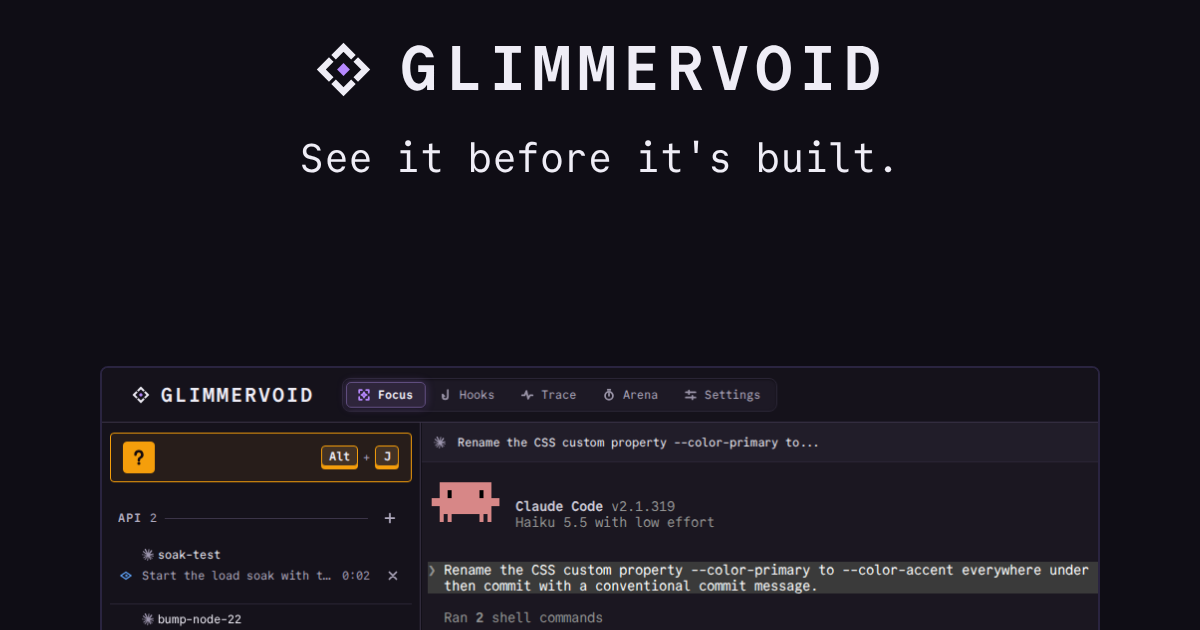
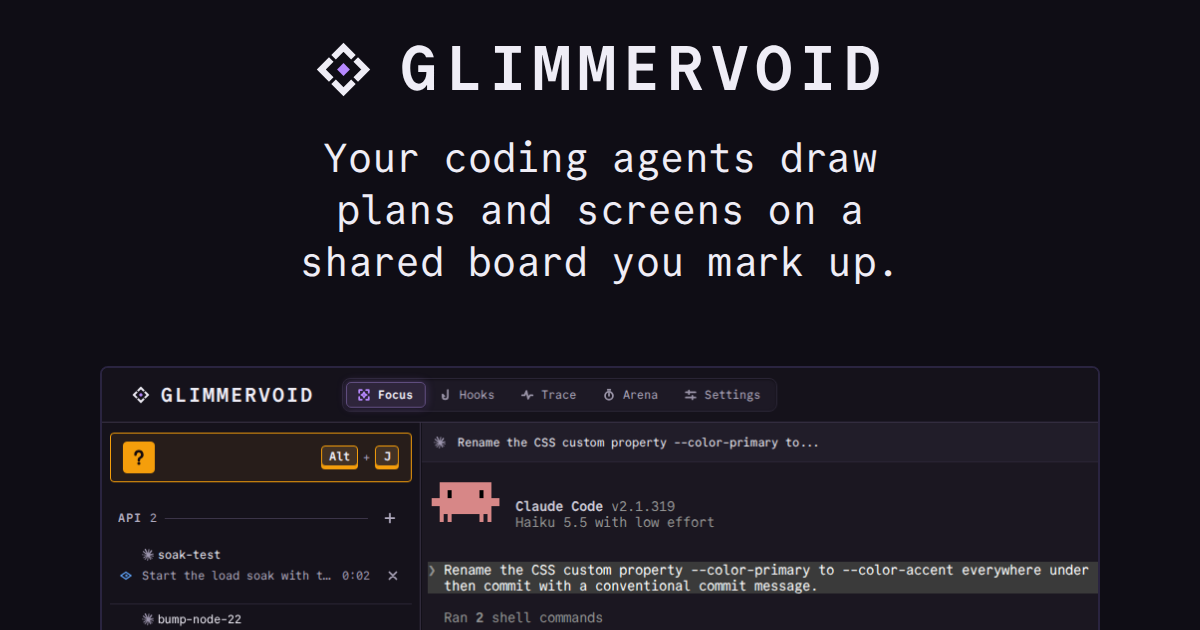
docs(brand): unify product pitch across site, README, package, and brand bible
Replace the three competing pitches across README.md, package.json,
marketing/social/manifest.json, brand-bible/naming.yaml,
brand-bible/voice.yaml, and the Astro site under site/src/ with the
settled line: "Your coding agents draw plans and screens on a shared
board you mark up."

Update surrounding supporting copy where it restated an old pitch or
predated Studio on ACP, Focus with its terminal, and Packs, regenerate
site/public/capture/og.png from marketing/social/manifest.json so the
social link card matches its alt text, and add an Unreleased CHANGELOG
entry per site/AGENTS.md.

Ticket: one-pitch-everywhere/U1
Scope-risk: narrow
Confidence: medium
Not-tested: Astro site browser layout-shift walk (text-only copy replacement; astro build passed and og.png visually verified)

Changed region(s): [[0.2467, 0.2111, 0.74, 0.3619], [0.2467, 0.3921, 0.74, 0.4524]]

diff --git a/site/src/pages/index.md.ts b/site/src/pages/index.md.ts
@@ -3,13 +3,13 @@ import { AGENT_COMMAND_HELP } from '../../../server/core/agent-api-core.ts';
 import { agentMarkdownPage, markdownResponse } from '../lib/agent-markdown.ts';
 import { FAQ_ENTRIES } from '../lib/faq.ts';
 import { INSTALL_COMMAND, WINDOWS_INSTALL_COMMAND } from '../lib/install-command.ts';
-import { AGENT_CARDS, DEFAULT_PORT, SANE_YOLO_AGENT_LABELS, PRODUCT_VERSION, REPOSITORY_URL } from '../lib/product-facts.ts';
+import { AGENT_CARDS, DEFAULT_PORT, PRODUCT_SUMMARY, SANE_YOLO_AGENT_LABELS, PRODUCT_VERSION, REPOSITORY_URL } from '../lib/product-facts.ts';
 import { sitePath } from '../lib/site-path.ts';
 
 export const GET: APIRoute = ({ site }) => {
   const urlOf = (pathWithinSite: string) => new URL(sitePath(pathWithinSite), site).href;
   const body = [
-    `Glimmervoid is an open-source agentic development environment (ADE): a local orchestrator for coding agents. A small Node.js process on your own machine starts each agent as a real process in a real terminal, with your own login, subscription, skills, hooks and settings, gives each session its own git worktree, and serves a browser dashboard that shows which session needs you. It never sits between an agent and its model. It binds to localhost, needs no account, and is open source under MIT. Current version: ${PRODUCT_VERSION}.`,
+    `${PRODUCT_SUMMARY} A small Node.js process on your own machine runs Claude Code, Codex and Antigravity CLI over ACP in Studio with no terminal, keeps the terminal in Focus, gives each session its own git worktree, and serves a browser dashboard where Packs add tabs and only the session that needs you comes to the front. Each agent uses your own login, subscription, skills, hooks and settings, and talks straight to its model. It binds to localhost, needs no account, and is open source under MIT. Current version: ${PRODUCT_VERSION}.`,
     '## Install',
     [
       `- macOS and Linux: \`${INSTALL_COMMAND}\``,
@@ -24,7 +24,7 @@ export const GET: APIRoute = ({ site }) => {
     ].join('\n'),
     '## Features',
     [
-      '- Boards: every session gets a whiteboard beside its terminal. The agent puts what it would otherwise describe there: UI prototypes framed on a device with dials you turn, architecture diagrams, plans as steps marked planned, building or landed, screenshots, clips and docs. You drag, draw with the pen, leave sticky notes or red-pen a doc, and the agent sees each change on its next prompt.',
+      '- Boards: Studio puts the shared board at the center with no terminal in the way, while Focus keeps the terminal beside it. The agent puts what it would otherwise describe there: UI prototypes framed on a device with dials you turn, architecture diagrams, plans as steps marked planned, building or landed, screenshots, clips and docs. You drag, draw with the pen, leave sticky notes or red-pen a doc, and the agent sees each change on its next prompt.',
       '- Status: read from each agent\'s own lifecycle hooks, with the terminal title as a fallback, never from reading the screen. Every session that needs you gets a numbered place in line in the attention banner; tap the banner, or press Cmd+J on macOS and Alt+J elsewhere, to open the next one\'s terminal.',
       '- Reviews, Team: your teammates\' pull requests get a review drafted by an agent, and nothing posts to GitHub until you keep the comments you agree with and click Approve or Comment. Re-reviews after new commits raise only high findings. Opt-in.',
       '- Reviews, Mine: every pull request you opened shows its merge readiness (checks, review, threads, conflicts, base). Per pull request you can turn on Merge when ready, which merges it once everything is green, and Keep mergeable, which has an agent repair conflicts and failing checks.',

diff --git a/site/src/lib/faq.ts b/site/src/lib/faq.ts
@@ -7,11 +7,11 @@ export interface FaqEntry {
 
 export const FAQ_ENTRIES: readonly FaqEntry[] = [
   {
-    question: 'What is an agentic development environment (ADE)?',
+    question: 'What is Glimmervoid?',
     answerParagraphs: [
-      'A workspace built around AI coding agents instead of a code editor.',
-      'Agents run in parallel, each in its own git worktree. You review their diffs and merge.',
-      'Glimmervoid is an open-source ADE for terminal coding agents.',
+      'Your coding agents draw plans and screens on a shared board you mark up.',
+      'Studio runs Claude Code, Codex and Antigravity CLI over ACP with no terminal, Focus keeps the terminal when you want it, and Packs add tabs.',
+      'Every agent works in its own git worktree, so you answer, review their diffs and merge from one place.',
     ],
   },
   {
@@ -47,10 +47,10 @@ export const FAQ_ENTRIES: readonly FaqEntry[] = [
     ],
   },
   {
-    question: 'How is an ADE different from an IDE or a terminal multiplexer?',
+    question: 'How is Glimmervoid different from an IDE or a terminal multiplexer?',
     answerParagraphs: [
-      'An IDE is built around you editing files. An ADE is built around agents editing while you answer, review and merge.',
-      'A multiplexer gives you a grid to watch. Glimmervoid reads each agent\'s status from its hooks and queues the ones that need you.',
+      'An IDE centers on you editing files by hand. Glimmervoid runs agents in parallel worktrees while you mark up their boards, review diffs and merge.',
+      'A multiplexer gives you a grid of terminals to watch. Glimmervoid reads each agent\'s status from its hooks and brings forward the session that needs you.',
     ],
   },
 ];

diff --git a/site/src/lib/product-facts.ts b/site/src/lib/product-facts.ts
@@ -72,6 +72,6 @@ export const AUTHOR = { '@type': 'Person', name: 'John C. Waters', url: 'https:/
 
 export const CODING_AGENT_LABELS = labelsOfAdaptersWhere((adapter) => adapter.id !== 'shell');
 
-export const PRODUCT_SUMMARY = 'Open-source agentic development environment (ADE) for terminal coding agents. Your agent shows its prototypes, architecture and plans on a whiteboard beside its terminal, each session runs in its own worktree, and you see which one needs you.';
+export const PRODUCT_SUMMARY = 'Your coding agents draw plans and screens on a shared board you mark up.';
 
-export const HOME_DESCRIPTION = "Open-source ADE for agents. See it before it's built: your coding agent sketches the screen, draws the architecture and shows you on a whiteboard. Run it on your computer, or on Glimmervoid Cloud from any phone.";
+export const HOME_DESCRIPTION = 'Your coding agents draw plans and screens on a shared board you mark up.';

diff --git a/site/src/lib/home-structured-data.ts b/site/src/lib/home-structured-data.ts
@@ -1,7 +1,7 @@
 import { FAQ_ENTRIES } from './faq.ts';
 import { AUTHOR, PRODUCT_SUMMARY, PRODUCT_VERSION, REPOSITORY_URL } from './product-facts.ts';
 
-export const HOME_TITLE = "Glimmervoid: Open-source ADE for agents. See it before it's built.";
+export const HOME_TITLE = 'Glimmervoid: Your coding agents draw plans and screens on a shared board you mark up.';
 
 export function homeStructuredData(site: URL | undefined): Record<string, unknown> {
   const homeUrl = new URL('/', site).href;

diff --git a/CHANGELOG.md b/CHANGELOG.md
@@ -14,6 +14,7 @@ and this project adheres to [Semantic Versioning](https://semver.org/spec/v2.0.0
 
 ### Changed
 
+- **glimmervoid.dev, README, package metadata, and brand bible now share one product pitch.** Unified the site, README, package description, brand bible, and social link card on "Your coding agents draw plans and screens on a shared board you mark up." and updated surrounding copy to reflect Studio on ACP, Focus with its terminal, and Packs.
 - **Studio no longer shows terminal fallbacks and now displays agent failures directly on Studio cards and in the Studio dock.** Removed Studio's terminal-wait card handling, terminal-mentioning plan-card copy, and open-terminal actions; when a Studio agent stalls, fails, or drops a message, its failure text appears directly on its agent card (keeping failed branch cards expanded) and in the Studio dock with no terminal offered. Focus Chat keeps its terminal and PTY paste paths unchanged.
 - **Existing Studio sessions now migrate onto ACP automatically at startup.** On the first start after upgrading, the Orchestrator and live branch sessions switch to the ACP driver in one config write, resuming their prior conversation over `session/load` (verified for Claude Code, Codex CLI, and Antigravity) or starting fresh with one plain note in Studio when the earlier conversation cannot be carried over. Studio projects whose configured agent has no ACP row stay stopped without switching their agent and show a note naming the agent and how to pick an ACP-capable agent. Focus sessions stay on PTY.
 - **Studio sessions now run on the ACP driver only, and the Studio agent picker lists only ACP agents.** New Studio sessions start on ACP (including a built-in `antigravity` row running `agy acp` alongside Claude Code, Codex CLI, and any `acpAgents` entries in `config.json`), while Focus sessions stay on the PTY driver. Requesting a Studio session with an agent that has no ACP row is refused with the list of usable ACP agents.

diff --git a/README.md b/README.md
@@ -5,13 +5,13 @@
 [![Node.js](https://img.shields.io/badge/node-%3E%3D24.15-brightgreen.svg)](https://nodejs.org)
 [![Platform: Windows | Linux | macOS](https://img.shields.io/badge/platform-Windows%20%7C%20Linux%20%7C%20macOS-0078d4)](https://github.com/johncwaters/glimmervoid)
 
-**See it before it's built. Your coding agent sketches the screen, draws the architecture and shows you on a whiteboard.**
+**Your coding agents draw plans and screens on a shared board you mark up.**
 
 [glimmervoid.dev](https://glimmervoid.dev)
 
 Glimmervoid takes a feature from start to finish. Every agent works in its own git worktree, status comes from the agent's own hooks, and the one session that needs you comes to the front. Review and merge from the same page.
 
-It is an orchestrator, not a harness. Your coding agents run unmodified, as real processes in real terminals, with your own login, subscription, skills, hooks and settings, talking straight to their model. Run it free on your own computer, or on [Glimmervoid Cloud](https://glimmervoid.dev/#cloud), where your sessions keep working after you close the laptop and you open them from any browser or phone. Glimmervoid is developed inside Glimmervoid.
+It is an orchestrator, not a harness. Your coding agents run unmodified with your own login, subscription, skills, hooks and settings, talking straight to their model: Studio runs Claude Code, Codex and Antigravity CLI over ACP with no terminal, Focus keeps the terminal, and Packs add tabs. Run it free on your own computer, or on [Glimmervoid Cloud](https://glimmervoid.dev/#cloud), where your sessions keep working after you close the laptop and you open them from any browser or phone. Glimmervoid is developed inside Glimmervoid.
 
 ![Glimmervoid dashboard replaying recorded Claude Code sessions: one fixes a flaky upload test with its diff in the terminal, three more work on their own projects in the session rail](assets/pictures/glimmervoid-demo.gif)
 
